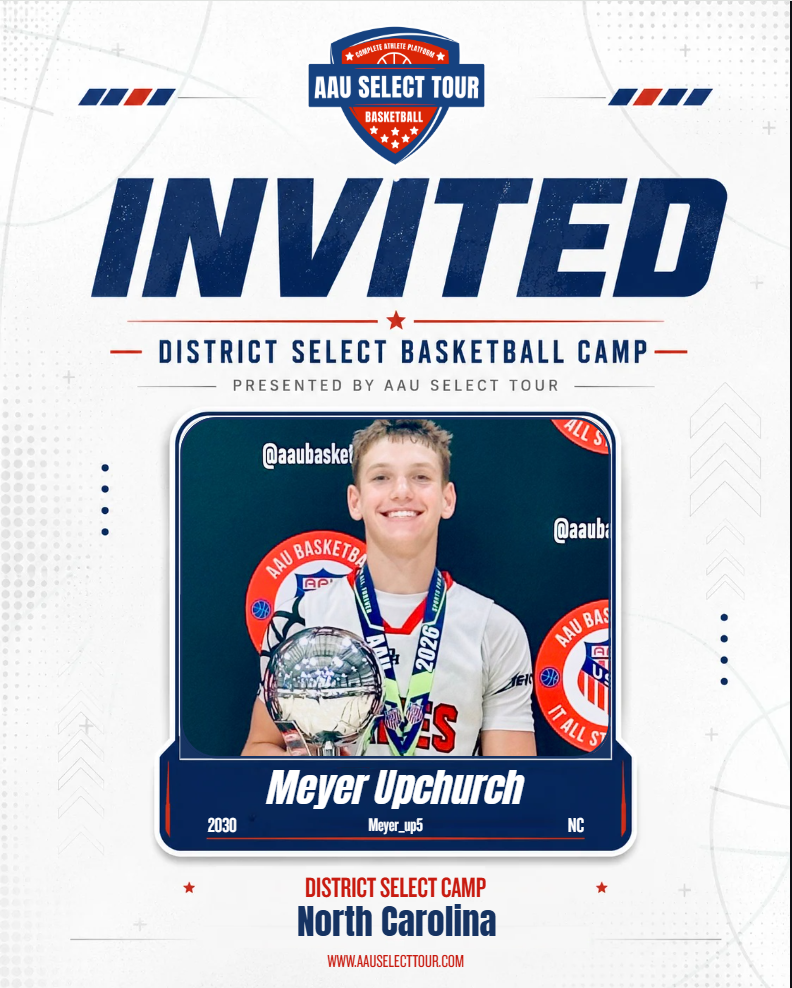
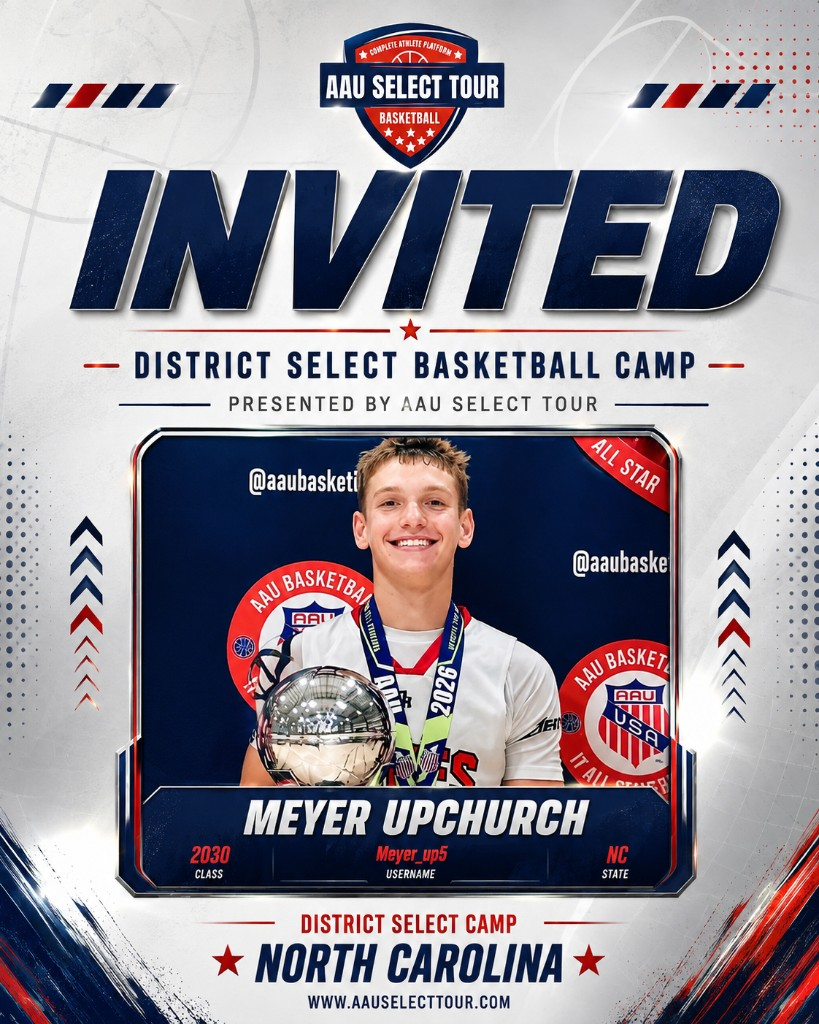
Use the new AAU Select Tour invitation template.

diff --git a/admin.html b/admin.html
@@ -76,15 +76,16 @@ main{max-width:1180px;margin:0 auto;padding:22px 20px 60px}
 .invite-modal{position:fixed;inset:0;z-index:80;background:rgba(20,26,34,.55);display:none;align-items:center;justify-content:center;padding:16px}
 .invite-modal.on{display:flex}
 .invite-modal-card{background:#fff;border-radius:14px;max-width:420px;width:100%;max-height:94vh;overflow:auto;padding:16px 16px 18px;box-shadow:0 16px 40px rgba(20,26,34,.25)}
-.invite-stage{position:relative;width:100%;aspect-ratio:792 / 988;background:#f3f3f3;border-radius:12px;overflow:hidden;box-shadow:0 8px 24px rgba(20,26,34,.12)}
+.invite-stage{position:relative;width:100%;aspect-ratio:819 / 1024;background:#f3f3f3;border-radius:12px;overflow:hidden;box-shadow:0 8px 24px rgba(20,26,34,.12)}
 .invite-bg{position:absolute;inset:0;width:100%;height:100%;object-fit:fill;display:block}
-.invite-photo{position:absolute;left:23.737%;top:43.522%;width:52.525%;height:33%;overflow:hidden;background:#1a2740}
+.invite-photo{position:absolute;left:19.536%;top:43.555%;width:61.051%;height:33.203%;overflow:hidden;background:#1a2740}
 .invite-photo img{width:100%;height:100%;object-fit:cover;object-position:center 18%;display:block}
 .invite-photo .ph{width:100%;height:100%;display:flex;align-items:center;justify-content:center;color:#9aa4b1;font-size:12px}
-.invite-bar{position:absolute;left:20.328%;top:76.316%;width:59.343%;height:9.717%;background:var(--navy);color:#fff;display:flex;flex-direction:column;justify-content:center;padding:1.2% 4% 1.6%}
-.invite-name{font-family:'Barlow Condensed',sans-serif;font-style:italic;font-weight:800;font-size:clamp(18px,5.2vw,28px);line-height:1;text-align:center;text-transform:uppercase;letter-spacing:.01em;white-space:nowrap;overflow:hidden}
-.invite-meta{display:flex;justify-content:space-between;gap:6px;margin-top:4px;font-size:clamp(10px,2.4vw,13px);font-weight:600;letter-spacing:.02em}
-.invite-camp{position:absolute;left:8.838%;top:90.688%;width:82.323%;height:4.656%;display:flex;align-items:center;justify-content:center;background:#f7f7f7;color:var(--navy);font-family:'Barlow Condensed',sans-serif;font-weight:800;font-size:clamp(16px,4.4vw,24px);text-transform:uppercase;letter-spacing:.02em;text-align:center;white-space:nowrap;overflow:hidden}
+.invite-bar{position:absolute;left:14.652%;top:76.758%;width:69.719%;height:8.203%;background:var(--navy);color:#fff;display:flex;flex-direction:column;justify-content:center;padding:1% 4% 1.4%}
+.invite-name{font-family:'Barlow Condensed',sans-serif;font-style:italic;font-weight:800;font-size:clamp(18px,5.2vw,30px);line-height:1;text-align:center;text-transform:uppercase;letter-spacing:.01em;white-space:nowrap;overflow:hidden}
+.invite-meta{display:flex;justify-content:space-between;gap:6px;margin-top:3px;font-size:clamp(9px,2.2vw,12px);font-weight:700;letter-spacing:.04em;text-transform:uppercase}
+.invite-meta b{color:#c8102e;font-weight:800}
+.invite-camp{position:absolute;left:12.21%;top:91.797%;width:75.702%;height:4.492%;display:flex;align-items:center;justify-content:center;background:#f4f4f4;color:var(--navy);font-family:'Barlow Condensed',sans-serif;font-style:italic;font-weight:800;font-size:clamp(16px,4.6vw,26px);text-transform:uppercase;letter-spacing:.02em;text-align:center;white-space:nowrap;overflow:hidden}
 input[type=text],input[type=number],input[type=search],select{font-family:'Barlow';font-size:15px;padding:10px 12px;border:1.5px solid var(--line);border-radius:8px;background:#fff;color:var(--ink)}
 input:focus,select:focus,button:focus-visible{outline:2px solid var(--orange);outline-offset:1px}
 
@@ -348,9 +349,9 @@ dialog select{width:100%;margin:10px 0 16px}
         <div class="invite-bar">
           <div class="invite-name" id="nomInviteName"></div>
           <div class="invite-meta">
-            <span id="nomInviteYear"></span>
-            <span id="nomInviteHandle"></span>
-            <span id="nomInviteState"></span>
+            <span><b id="nomInviteYear"></b> CLASS</span>
+            <span><b id="nomInviteHandle"></b> USERNAME</span>
+            <span><b id="nomInviteState"></b> STATE</span>
           </div>
         </div>
         <div class="invite-camp" id="nomInviteCamp"></div>
@@ -4073,14 +4074,14 @@ function openNomInvitePreview(id){
   const handle=String(row.instagram_handle||'').replace(/^@+/,'').trim();
   const to=row.player_email || (row.nominator_type==='self' ? row.nominator_email : '');
   const nameEl=$('#nomInviteName');
-  nameEl.textContent=name;
+  nameEl.textContent=name.toUpperCase();
   nameEl.style.fontSize = name.length>22 ? '18px' : name.length>16 ? '22px' : '';
   $('#nomInviteYear').textContent=row.grad_year||'';
   $('#nomInviteHandle').textContent=handle;
   $('#nomInviteState').textContent=String(row.home_state||'').trim().toUpperCase();
   const camp=String(row.camp_name||row.camp_code||'District Select Camp').trim();
   const campEl=$('#nomInviteCamp');
-  campEl.textContent=camp;
+  campEl.textContent=camp.toUpperCase();
   campEl.style.fontSize = camp.length>22 ? '16px' : camp.length>16 ? '18px' : '';
   const photo=$('#nomInvitePhoto');
   const ph=$('#nomInvitePhotoPh');

diff --git a/netlify/lib/nomination-invites.js b/netlify/lib/nomination-invites.js
@@ -15,13 +15,14 @@ const sharp = require('sharp');
 
 const DELAY_MS = 3 * 60 * 60 * 1000;
 const MAX_ATTEMPTS = 5;
-const TPL_W = 792;
-const TPL_H = 988;
+const TPL_W = 819;
+const TPL_H = 1024;
 const SCALE = 1;
-const PHOTO = { x: 188, y: 430, w: 416, h: 326 };
-const BAR = { x: 161, y: 754, w: 470, h: 96 };
-const CAMP_BOX = { x: 70, y: 896, w: 652, h: 46 };
+const PHOTO = { x: 160, y: 446, w: 500, h: 340 };
+const BAR = { x: 120, y: 786, w: 571, h: 84 };
+const CAMP_BOX = { x: 100, y: 940, w: 620, h: 46 };
 const NAVY = '#082554';
+const RED = '#c8102e';
 const DEFAULT_SITE = 'https://selecttourevents.com';
 const DEFAULT_SUPABASE_URL = 'https://nxncasbkrcermftbviuw.supabase.co';
 
@@ -136,25 +137,31 @@ async function composeInvitePng(row){
   const handle = String(row.instagram_handle || '').replace(/^@+/, '').trim();
   const state = String(row.home_state || '').trim().toUpperCase();
   const campName = String(row.camp_name || '').trim() || 'District Select Camp';
-  const nameSize = name.length > 22 ? 22 : name.length > 16 ? 27 : 32;
-  const campSize = campName.length > 22 ? 20 : campName.length > 16 ? 24 : 28;
+  const nameSize = name.length > 22 ? 22 : name.length > 16 ? 28 : 34;
+  const campSize = campName.length > 22 ? 22 : campName.length > 16 ? 28 : 34;
 
   const svg = `<?xml version="1.0" encoding="UTF-8"?>
 <svg width="${W}" height="${H}" viewBox="0 0 ${W} ${H}" xmlns="http://www.w3.org/2000/svg">
   <rect x="${bar.x}" y="${bar.y}" width="${bar.w}" height="${bar.h}" fill="${NAVY}"/>
-  <text x="${bar.x + bar.w / 2}" y="${bar.y + 38}" text-anchor="middle" fill="#ffffff"
+  <text x="${bar.x + bar.w / 2}" y="${bar.y + 36}" text-anchor="middle" fill="#ffffff"
     font-family="Arial Black, Helvetica Neue, Helvetica, Arial, sans-serif"
-    font-size="${nameSize}" font-style="italic" font-weight="800">${escapeXml(name)}</text>
-  <text x="${bar.x + 16}" y="${bar.y + 74}" text-anchor="start" fill="#ffffff"
-    font-family="Helvetica Neue, Helvetica, Arial, sans-serif" font-size="13">${escapeXml(year)}</text>
-  <text x="${bar.x + bar.w / 2}" y="${bar.y + 74}" text-anchor="middle" fill="#ffffff"
-    font-family="Helvetica Neue, Helvetica, Arial, sans-serif" font-size="13">${escapeXml(handle)}</text>
-  <text x="${bar.x + bar.w - 16}" y="${bar.y + 74}" text-anchor="end" fill="#ffffff"
-    font-family="Helvetica Neue, Helvetica, Arial, sans-serif" font-size="13">${escapeXml(state)}</text>
-  <rect x="${camp.x}" y="${camp.y}" width="${camp.w}" height="${camp.h}" fill="#f7f7f7"/>
-  <text x="${camp.x + camp.w / 2}" y="${camp.y + camp.h / 2 + 8}" text-anchor="middle" fill="${NAVY}"
+    font-size="${nameSize}" font-style="italic" font-weight="800">${escapeXml(name.toUpperCase())}</text>
+  <text x="${bar.x + 28}" y="${bar.y + 68}" text-anchor="start"
+    font-family="Helvetica Neue, Helvetica, Arial, sans-serif" font-size="13" font-weight="700">
+    <tspan fill="${RED}">${escapeXml(year)}</tspan><tspan fill="#ffffff"> CLASS</tspan>
+  </text>
+  <text x="${bar.x + bar.w / 2}" y="${bar.y + 68}" text-anchor="middle"
+    font-family="Helvetica Neue, Helvetica, Arial, sans-serif" font-size="13" font-weight="700">
+    <tspan fill="${RED}">${escapeXml(handle)}</tspan><tspan fill="#ffffff"> USERNAME</tspan>
+  </text>
+  <text x="${bar.x + bar.w - 28}" y="${bar.y + 68}" text-anchor="end"
+    font-family="Helvetica Neue, Helvetica, Arial, sans-serif" font-size="13" font-weight="700">
+    <tspan fill="${RED}">${escapeXml(state)}</tspan><tspan fill="#ffffff"> STATE</tspan>
+  </text>
+  <rect x="${camp.x}" y="${camp.y}" width="${camp.w}" height="${camp.h}" fill="#f4f4f4"/>
+  <text x="${camp.x + camp.w / 2}" y="${camp.y + camp.h / 2 + 11}" text-anchor="middle" fill="${NAVY}"
     font-family="Arial Black, Helvetica Neue, Helvetica, Arial, sans-serif"
-    font-size="${campSize}" font-weight="800">${escapeXml(campName)}</text>
+    font-size="${campSize}" font-style="italic" font-weight="800">${escapeXml(campName.toUpperCase())}</text>
 </svg>`;
 
   layers.push({ input: Buffer.from(svg), top: 0, left: 0 });
